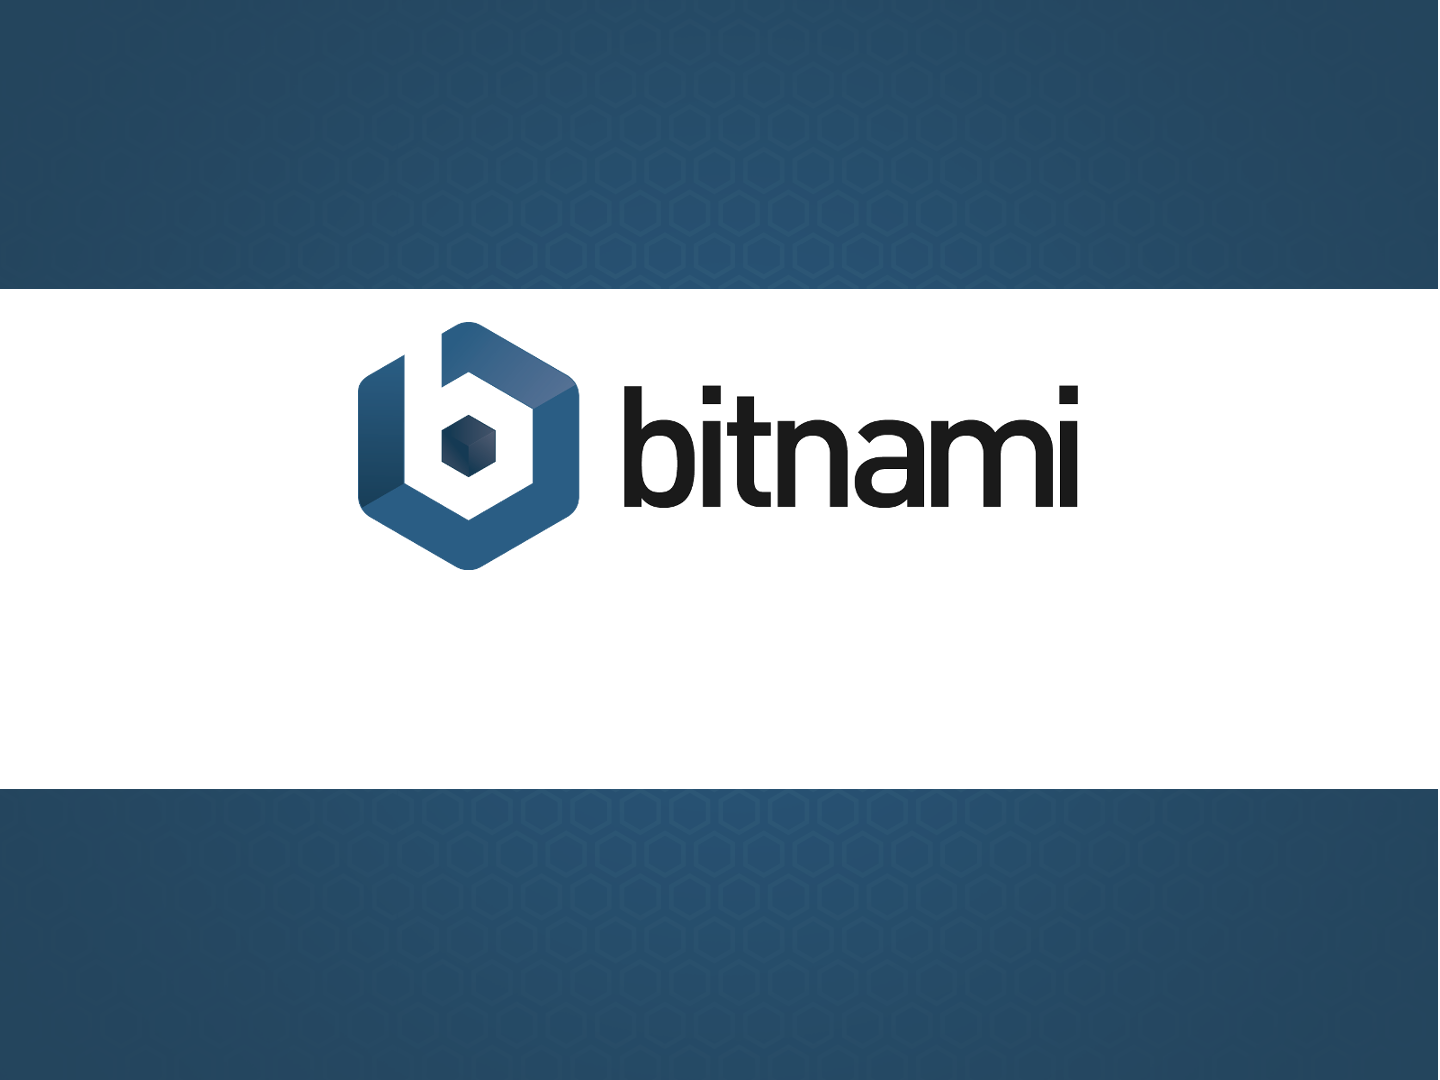
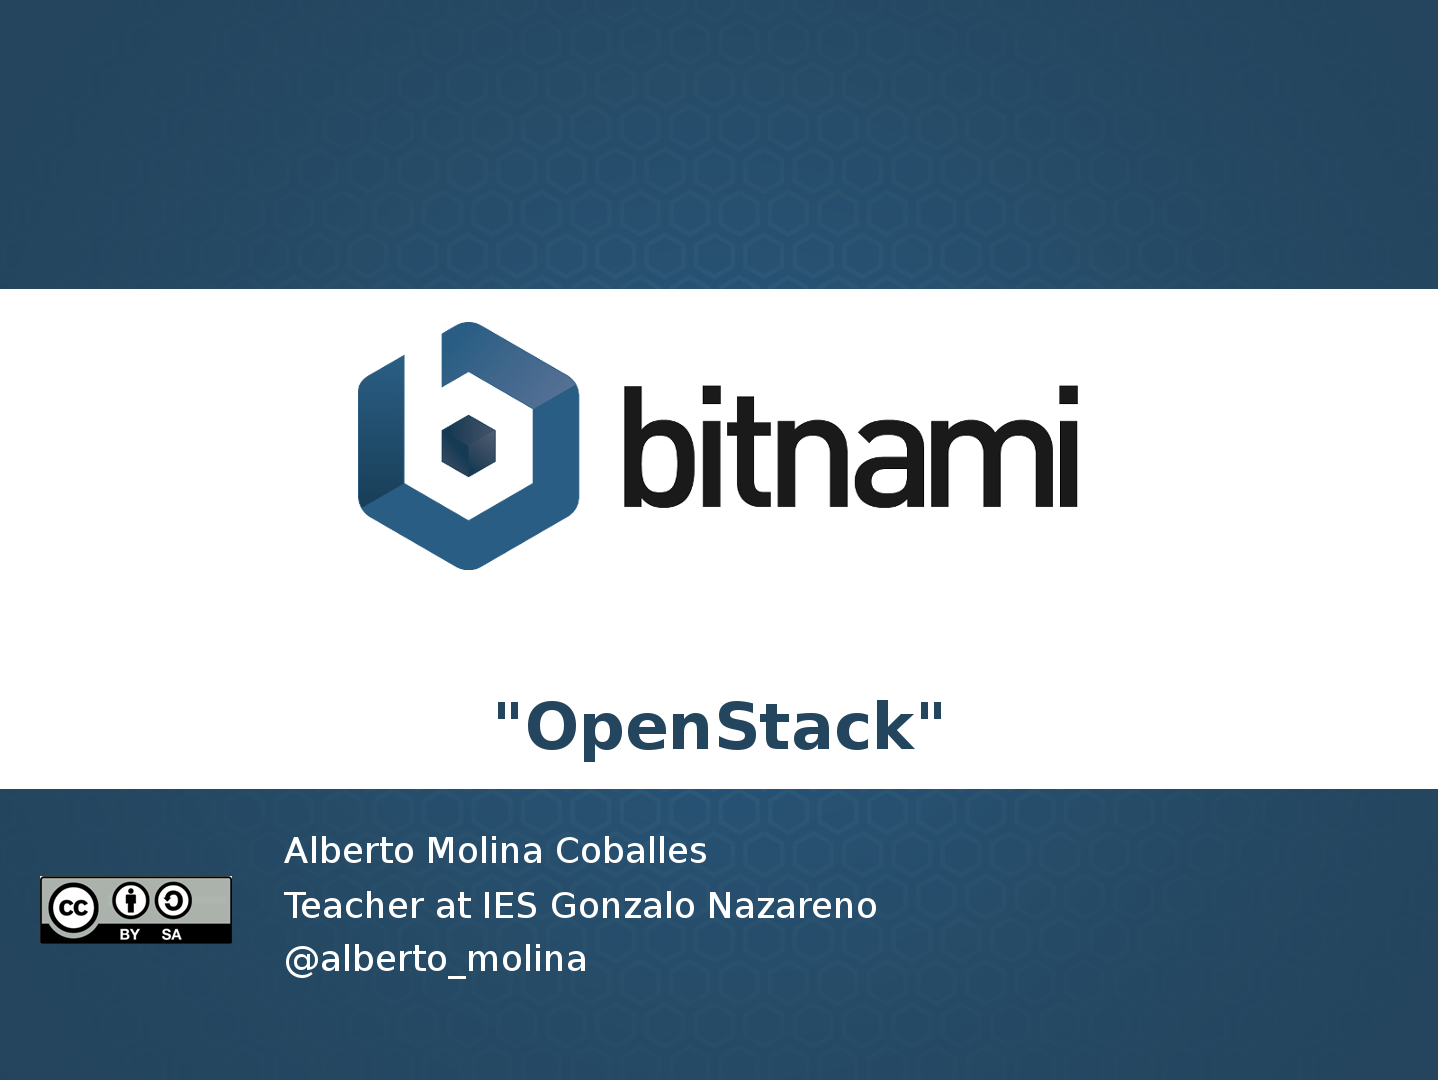
Modificando cabecera

Changed region(s): [[0.0, 0.7944, 0.625, 0.9167], [0.3438, 0.6417, 0.6562, 0.7028], [0.1875, 0.7639, 0.5, 0.7944]]

diff --git a/index.html b/index.html
@@ -40,18 +40,7 @@
 
       <!-- Any section element inside of this container is displayed as a slide -->
       <div class="slides">
-	<title data-background="img/fondo-bitnami1.png">
-	  <h3>OpenStack</h3>
-	  <p>
-	    <a href="http://albertomolina.wordpress.com">Alberto Molina Coballes</a>
-	  </p>
-	  <p>
-	    <a href="http://creativecommons.org/licenses/by-sa/3.0/">
-	      <img src="img/cc_by_sa.png" width="100px" class="plain"/></a>
-	  </p>
-	  <p><small>Theme by: <a href="http://lab.hakim.se/reveal-js/#/">reveal.js</a></small></p>
-	</title>
-	
+	<section data-background="img/fondo-bitnami1.png" />
 	<section data-background="img/fondo-bitnami2.png">
 	  <h3>Table of Contents</h3>
 	  <ul>
@@ -421,7 +410,7 @@
 	    </ul>
 	  </section>
 	  <section>
-	    <h2>Big Tent</h2>
+	    <h3>Big Tent</h3>
 	    <ul>
 	      <li>"Refactorizing the community"</li>
 	      <li>More inclusive approach</li>
@@ -437,14 +426,14 @@
 	      <p><a href="https://github.com/openstack/governance/blob/master/resolutions/20141202-project-structure-reform-spec.rst">OpenStack project structure reform specification</a></p></small>
 	  </section>
 	  <section>
-	    <h2>OpenStack Services</h2>
+	    <h3>OpenStack Services</h3>
 	    <p><a href="https://www.openstack.org/software/">OpenStack
 		Services</a></p>
 	    <p><a href="https://www.openstack.org/software/project-navigator">OpenStack
 		Project Navigator</a></p>
 	  </section>
 	  <section>
-	    <h2>OpenStack Modules</h2>
+	    <h3>OpenStack Modules</h3>
 	    <ul>
 	      <li>Independent modules</li>
 	      <li>Written in Python and available
@@ -705,7 +694,7 @@
 	      text-decoration:underline">Thanks</h3>
 	  <p style="color: white;">Alberto Molina Coballes</p>
 	  <p style="color: white;">Teacher at IES Gonzalo Nazareno</p>
-	  <p>@alberto_molina</p>
+	  <p style="color: white;">@alberto_molina</p>
 	</section>
       </div>
     </div>
